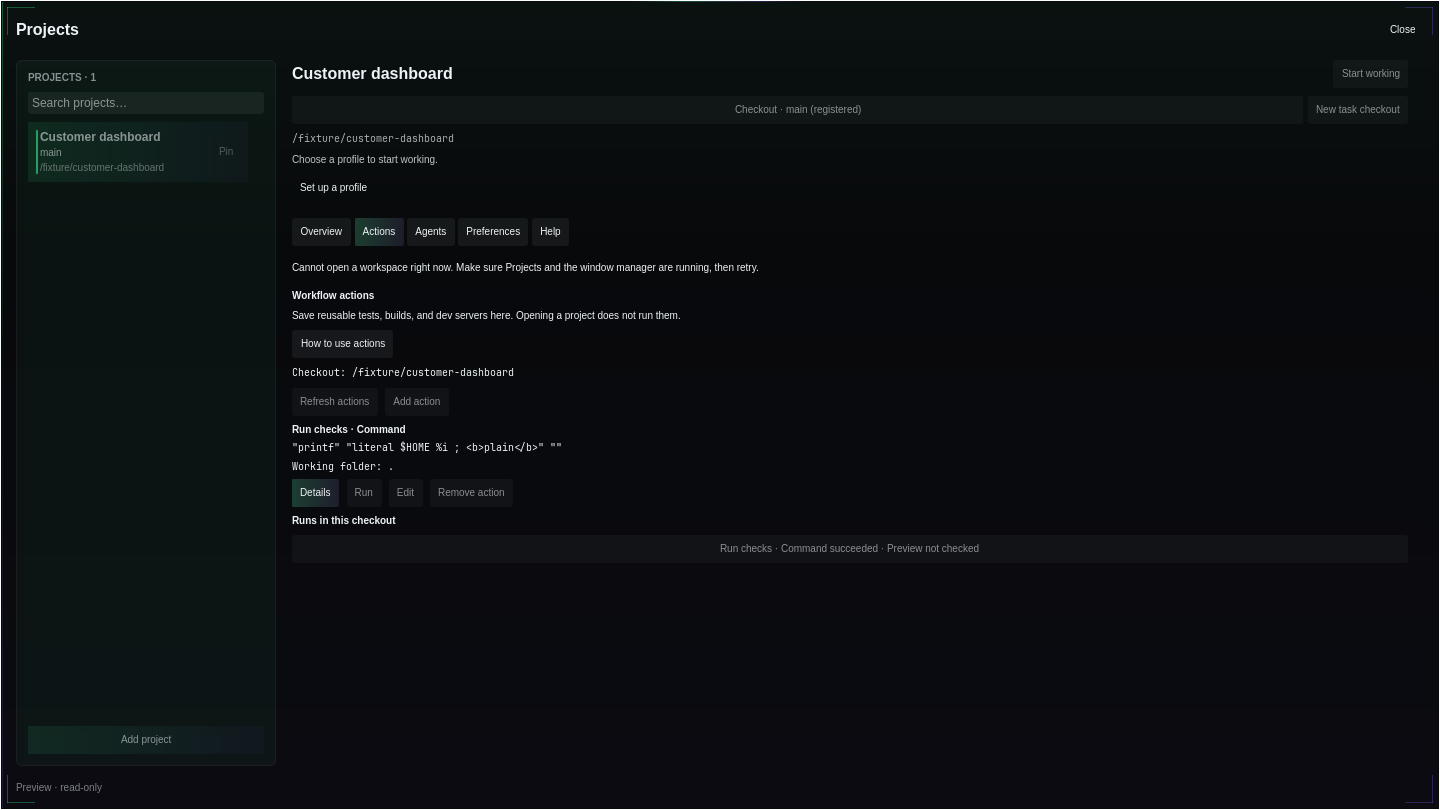
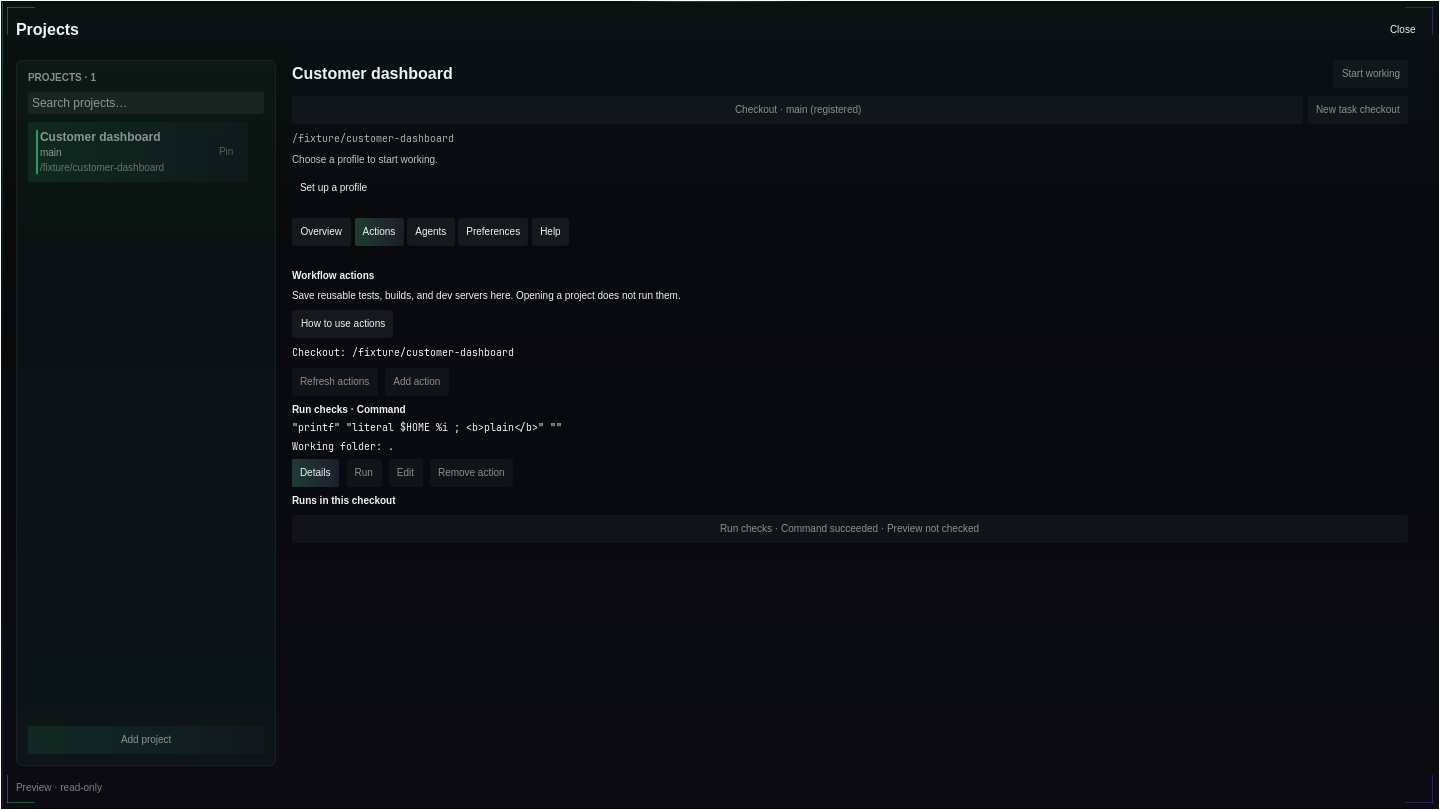
docs(projects): refresh Projects screenshots

Changed region(s): [[0.1875, 0.3086, 0.5312, 0.6481], [0.5, 0.6481, 0.6875, 0.679]]

diff --git a/tests/qml/fixtures/project-actions-preview.qml b/tests/qml/fixtures/project-actions-preview.qml
@@ -221,6 +221,14 @@ ShellRoot {
         }
       },
       projectAvailable: true,
+      projectSnapshot: {
+        sessionId: 'preview-session',
+        availability: {
+          ready: true,
+          registry: true,
+          compositor: true
+        }
+      },
       projectActions: actions
     }
   }
